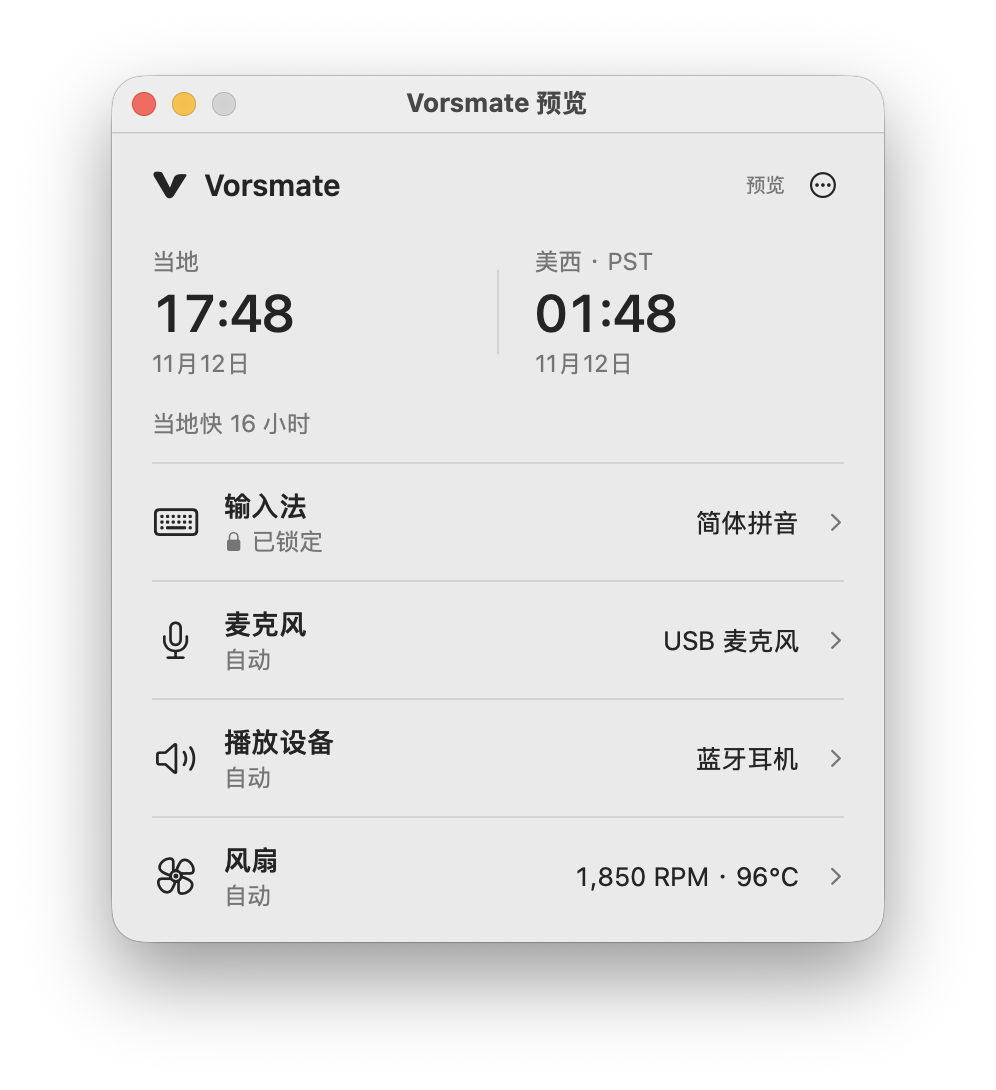
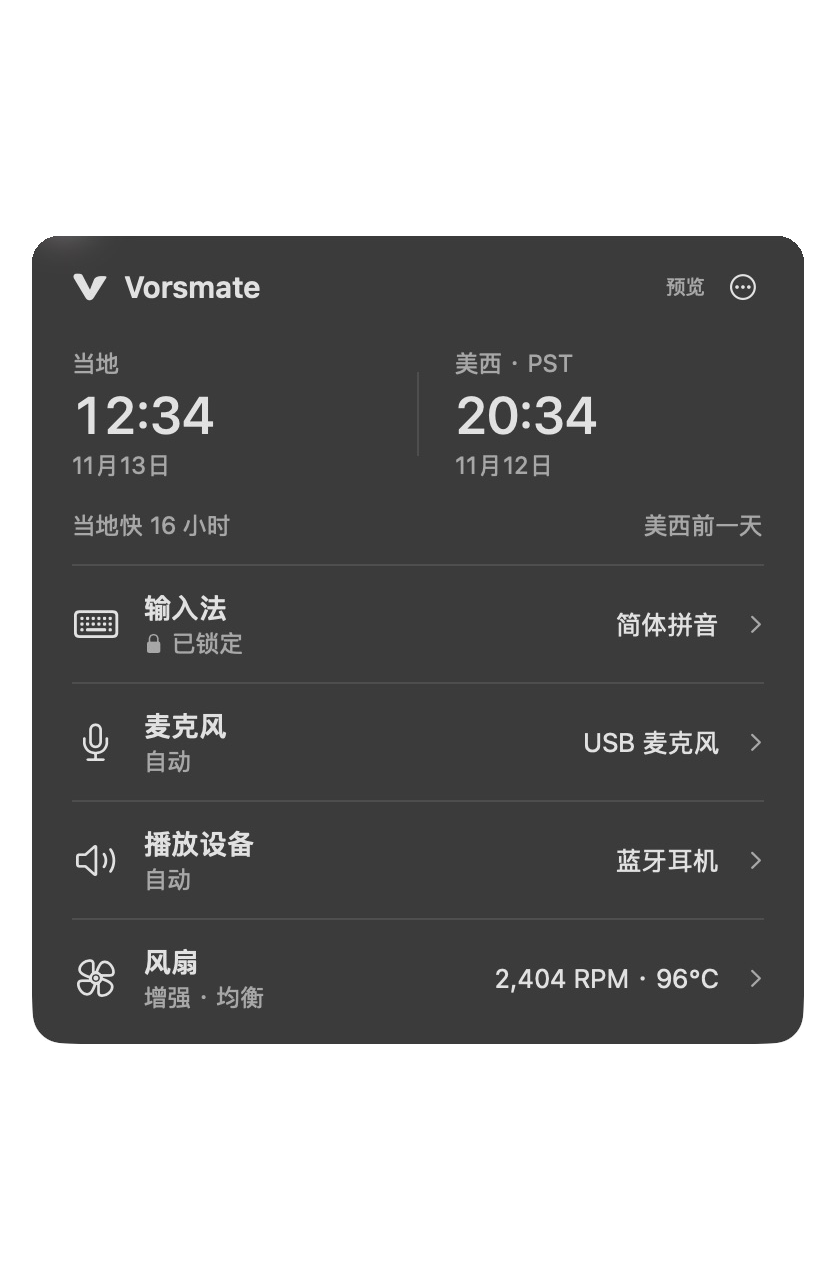
chore(release): prepare v0.2.0 with updated bilingual screenshots

diff --git a/README.en.md b/README.en.md
@@ -9,14 +9,21 @@ Input sources, audio devices, fan control, and time conversion in one compact Ma
 [![CI](https://github.com/0xTotoroX/vorsmate/actions/workflows/ci.yml/badge.svg)](https://github.com/0xTotoroX/vorsmate/actions/workflows/ci.yml)
 [![MIT License](https://img.shields.io/badge/license-MIT-blue.svg)](LICENSE)
 
-<img src="docs/images/overview.png" width="370" alt="Vorsmate overview showing local and Pacific time, input source, audio devices, and fan status"> <img src="docs/images/fan-control.png" width="370" alt="Expanded fan controls with automatic, enhanced cooling, fixed speed, balanced, and strong cooling options">
+<img src="docs/images/overview.png" width="370" alt="Vorsmate overview showing local and Pacific time, input source, audio devices, and fan status"> <img src="docs/images/device-priority.png" width="370" alt="One device list for selecting an item and dragging rows to reorder automatic selection priorities">
 
-Actual app screenshots using sample data. The app interface is currently in Simplified Chinese.
+Actual app screenshots using sample data. Click to switch; drag to reorder in the same list. The app interface is currently in Simplified Chinese.
+
+<details>
+<summary>Fan controls</summary>
+
+<img src="docs/images/fan-control.png" width="370" alt="Expanded fan controls with automatic, enhanced cooling, fixed speed, balanced, and strong cooling options">
+
+</details>
 
 ## Features
 
-- **Input sources** — Switch quickly, lock a preferred input source, or select automatically by priority.
-- **Audio devices** — Manage microphone and playback preferences independently. Fall back when a device disconnects and restore it when it returns. Supported wireless receivers become eligible only when a transmitter connects.
+- **Input sources** — Switch quickly, lock a preferred input source, or drag to set priorities for automatic selection.
+- **Audio devices** — Reorder and lock microphone and playback devices independently. Fall back when a device disconnects and restore it when it returns. Supported wireless receivers become eligible only when a transmitter connects.
 - **Fan control** — System automatic, enhanced cooling, and fixed speed. Balanced and strong cooling use different response curves, with temperature smoothing and gradual cooldown.
 - **Time comparison** — View local and US Pacific time side by side. Convert dates and times with daylight saving handled for both locations.
 
@@ -26,7 +33,7 @@ Built with SwiftUI and AppKit, with native Liquid Glass on macOS 26+. No account
 
 Requires **macOS 14 or later**. The universal app includes Apple Silicon and Intel architectures.
 
-1. Download `Vorsmate-0.1.2-universal.dmg` from [GitHub Releases](https://github.com/0xTotoroX/vorsmate/releases).
+1. Download `Vorsmate-0.2.0-universal.dmg` from [GitHub Releases](https://github.com/0xTotoroX/vorsmate/releases/tag/v0.2.0).
 2. Open the disk image and drag **Vorsmate** into **Applications**.
 3. Launch it from Applications and click the **V** icon in the menu bar.
 
@@ -39,6 +46,8 @@ Fan control requires enabling the helper in the app and completing macOS authori
 Click a feature row to expand its controls. The panel otherwise shows only the current state.
 
 Input sources and audio channels each offer **Off**, **Automatic**, and **Locked** modes. In the same expanded list, click an item to select and lock it, or drag a row immediately to reorder priorities—no long press required. Other rows smoothly make room. Items higher in the list take priority; the order is saved when you drop. Management is off on first launch; enable it where needed. Audio apps with their own device selection should use the system default. Input source locking does not control an input method’s internal language mode.
+
+Rows lift slightly while dragging and settle with a soft spring. Drop outside the list or press Esc to cancel, keeping the original order and lock target. Keyboard and accessibility actions are also available.
 
 For supported wireless microphones, availability follows the transmitter connection. A receiver alone does not take over the input; connecting a transmitter restores priority selection, and disconnecting all transmitters triggers fallback. Muting, input level, and pauses in speech do not trigger switching. Locks are preserved while a backup is used until the transmitter reconnects. See [supported devices and limitations](docs/wireless-microphones.md).
 

diff --git a/README.md b/README.md
@@ -9,14 +9,21 @@
 [![CI](https://github.com/0xTotoroX/vorsmate/actions/workflows/ci.yml/badge.svg)](https://github.com/0xTotoroX/vorsmate/actions/workflows/ci.yml)
 [![MIT License](https://img.shields.io/badge/license-MIT-blue.svg)](LICENSE)
 
-<img src="docs/images/overview.png" width="370" alt="Vorsmate 总览：当地与美西时间、输入法、音频设备和风扇状态"> <img src="docs/images/fan-control.png" width="370" alt="Vorsmate 展开的风扇控制：自动、增强散热、固定转速与均衡、强冷档位">
+<img src="docs/images/overview.png" width="370" alt="Vorsmate 总览：当地与美西时间、输入法、音频设备和风扇状态"> <img src="docs/images/device-priority.png" width="370" alt="Vorsmate 单列表：点击选择设备，直接拖动整行调整自动选择的优先级">
 
-实际应用界面，使用演示数据。
+实际应用界面，使用演示数据。同一列表，点击切换，拖动排序。
+
+<details>
+<summary>风扇控制界面</summary>
+
+<img src="docs/images/fan-control.png" width="370" alt="Vorsmate 展开的风扇控制：自动、增强散热、固定转速与均衡、强冷档位">
+
+</details>
 
 ## 功能
 
-- **输入法管理**：快速切换、锁定输入源，或按优先级自动选择。
-- **音频管理**：分别管理麦克风与播放设备。保留偏好的连接顺序，设备断开时回退，重连后恢复。支持的无线接收器在发射器连接后才参与选择。
+- **输入法管理**：快速切换、锁定输入源，或拖动排序后按优先级自动选择。
+- **音频管理**：麦克风与播放设备分别排序、分别锁定。设备断开时回退，重连后恢复。支持的无线接收器在发射器连接后才参与选择。
 - **风扇控制**：系统自动、增强散热和固定转速。均衡与强冷采用不同响应，配合温度平滑和缓降。
 - **时间对照**：并排查看当地与美西时间，点击即可换算日期与时刻，自动处理两地夏令时。
 
@@ -26,7 +33,7 @@
 
 需要 **macOS 14 或更新版本**。安装包包含 Apple Silicon 与 Intel 两种架构；应用界面目前为简体中文。
 
-1. 在 [GitHub Releases](https://github.com/0xTotoroX/vorsmate/releases) 下载 `Vorsmate-0.1.2-universal.dmg`。
+1. 在 [GitHub Releases](https://github.com/0xTotoroX/vorsmate/releases/tag/v0.2.0) 下载 `Vorsmate-0.2.0-universal.dmg`。
 2. 打开磁盘镜像，将 **Vorsmate** 拖入 **Applications**。
 3. 从“应用程序”中启动，点击菜单栏的 **V** 图标。
 
@@ -39,6 +46,8 @@
 点功能行展开操作，再次点击即可收起；平时只显示当前状态。
 
 输入法和音频各自有三种模式：**关闭**停止管理，**自动**按优先级选择，**锁定**保持指定项目。展开后的同一份列表中，点击项目切换并锁定，直接拖动整行调整优先级，无需长按，越靠上越优先；其他项目平滑让位，松手自动保存。首次启动默认关闭，按需开启。音频应用如单独指定了设备，需在该应用中选择“系统默认”。输入法锁定针对系统输入源，不改变输入法内部的中英文状态。
+
+拖动采用柔和吸附：项目轻微抬起，松手自然落位。拖出列表或按 Esc 取消排序，优先级和锁定目标保持原样；也支持键盘与辅助功能操作。
 
 支持的无线麦克风以发射器连接状态判断是否可用：只插接收器时使用备用麦，发射器连上后按优先级切换，全部断开时回退。静音、音量和说话停顿不触发切换；手动锁定的设备未就绪时先用备用，连接后恢复。当前支持范围与状态提示见[无线麦说明](docs/wireless-microphones.md)。
 

diff --git a/docs/AGENTS.md b/docs/AGENTS.md
@@ -6,6 +6,6 @@
 - wireless-microphones.md：发射器就绪、自动 / 锁定回退、确认时间、协议与匹配边界；无录音依赖。
 - verification.md：自动检查、已完成实机观察和未验证范围；不保存本机诊断、个人信息或开发过程日志。
 
-- images/overview.png / images/fan-control.png：原生预览实际截图，使用无品牌演示数据，供中英文 README 展示。
+- images/overview.png / images/device-priority.png / images/fan-control.png：总览、单列表排序与风扇控制的原生预览截图，使用无品牌演示数据，供中英文 README 展示。
 
 [PROTOCOL]: 变更时更新此头部，然后检查 AGENTS.md
